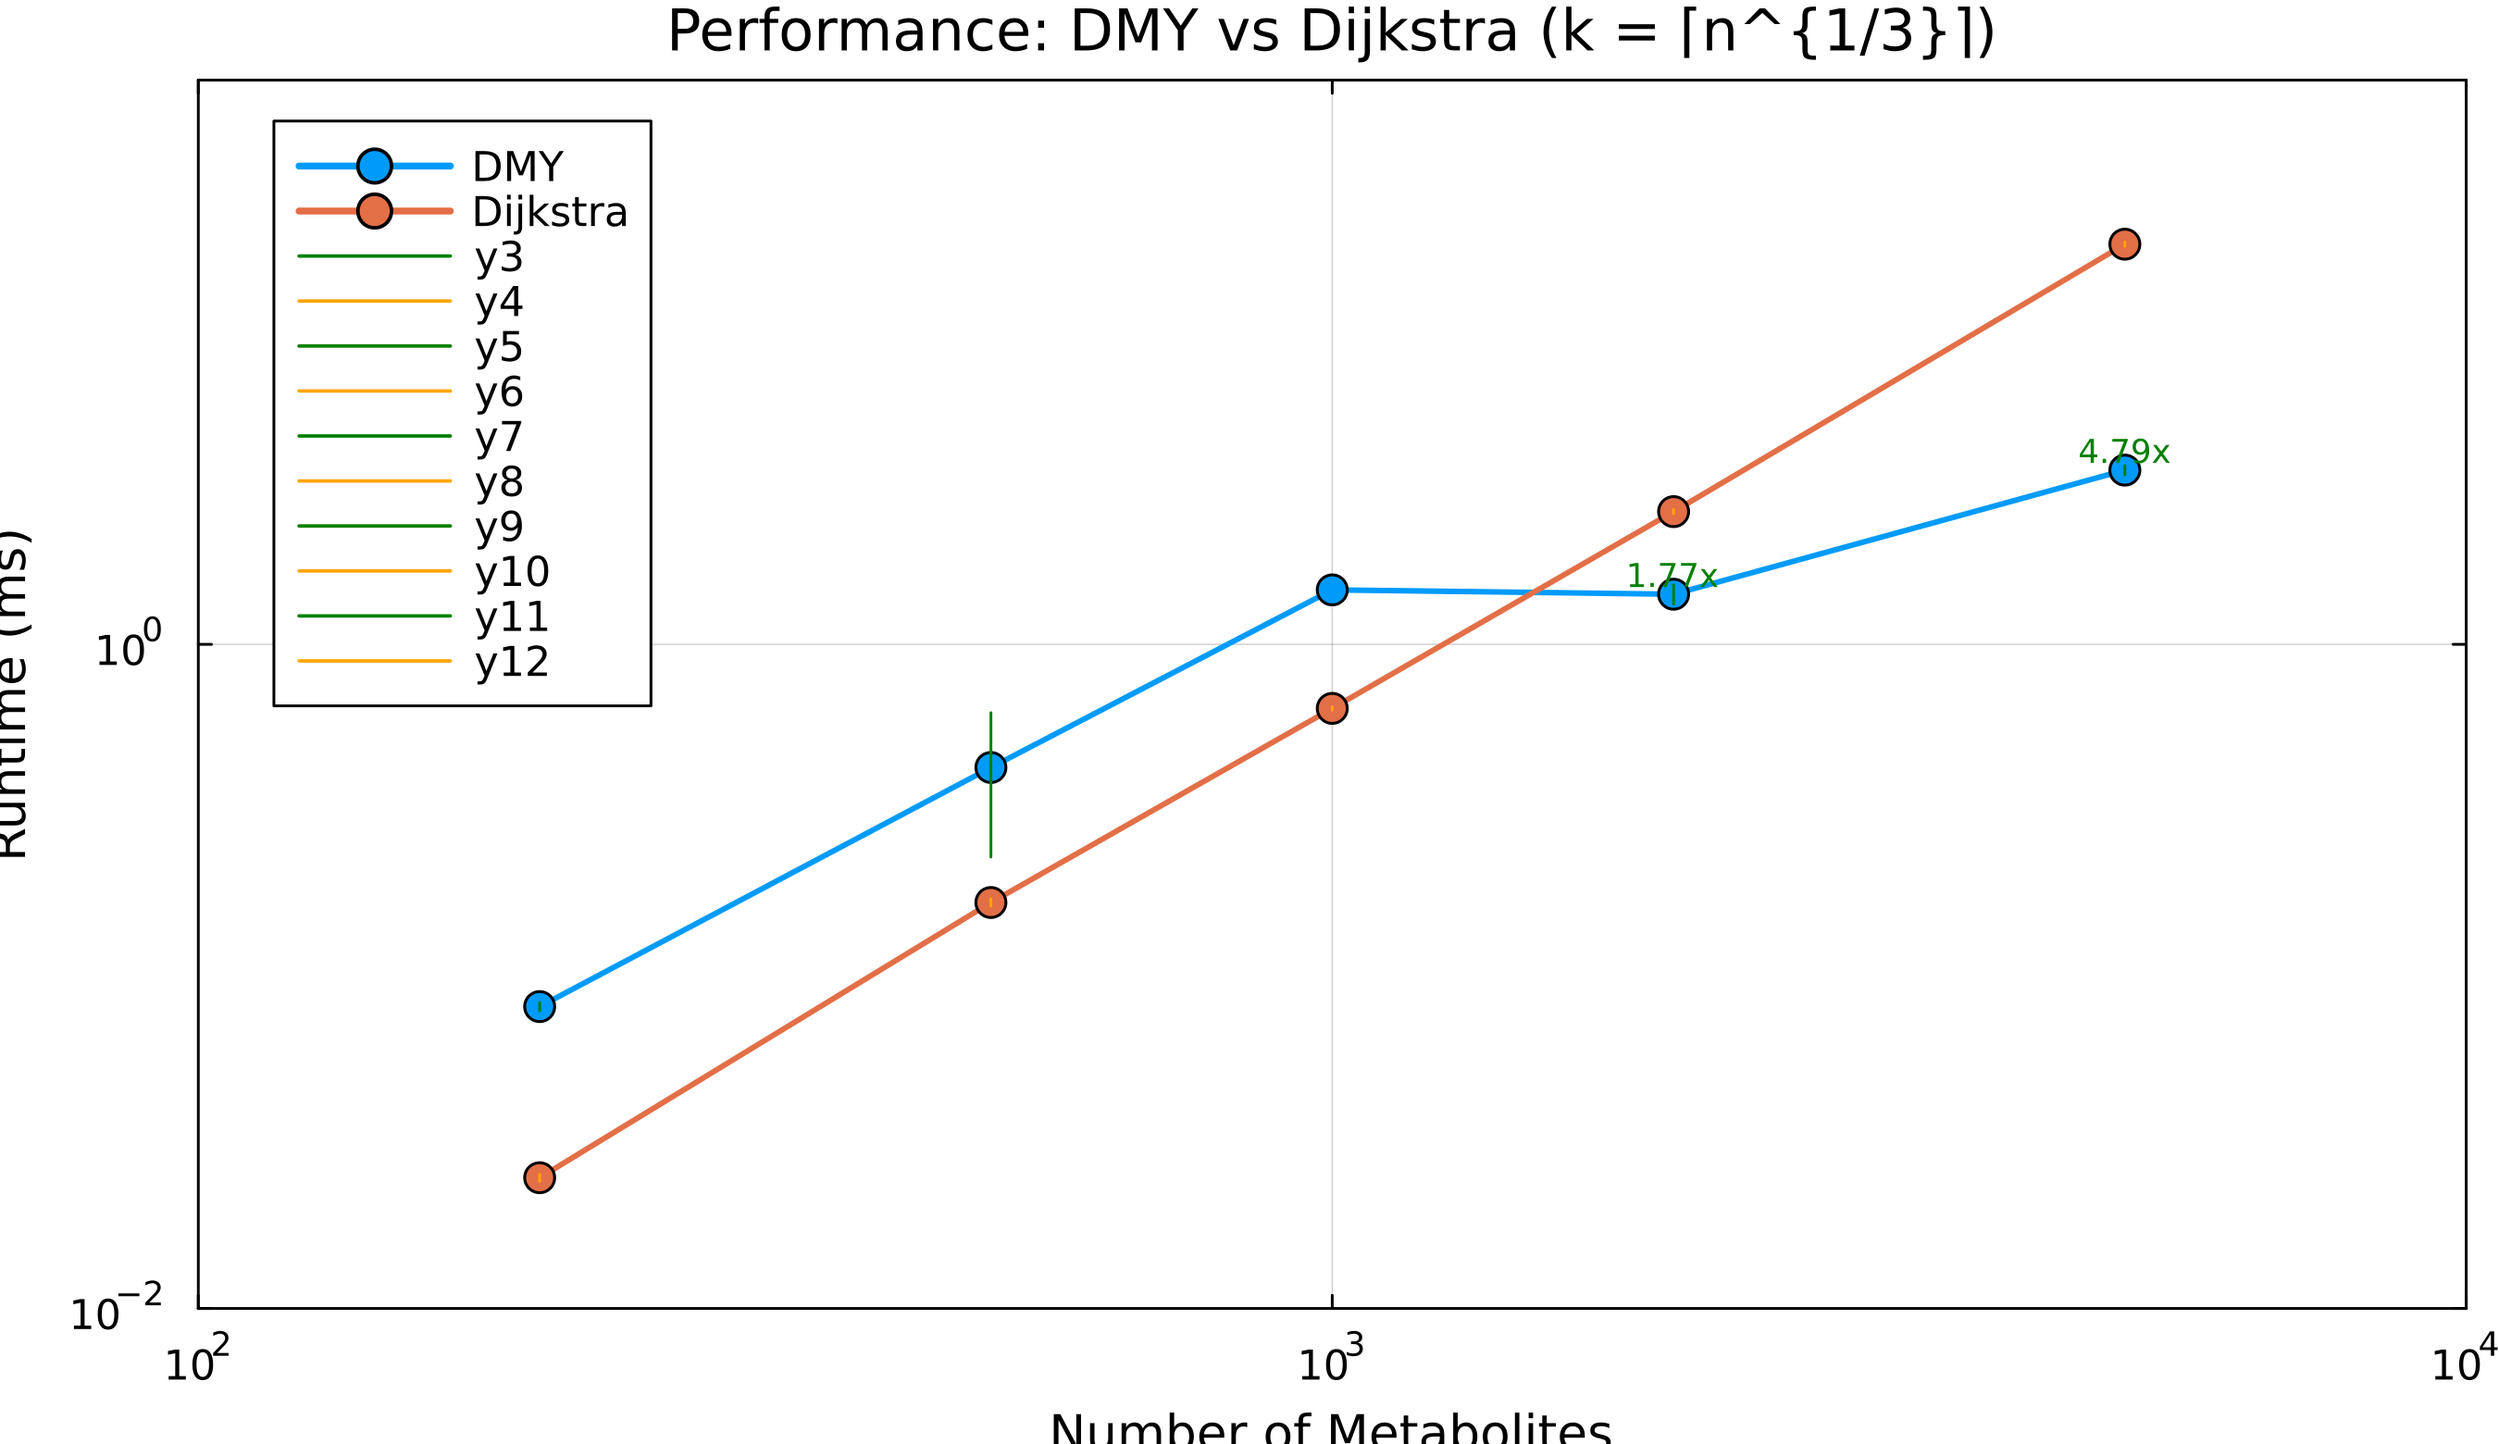
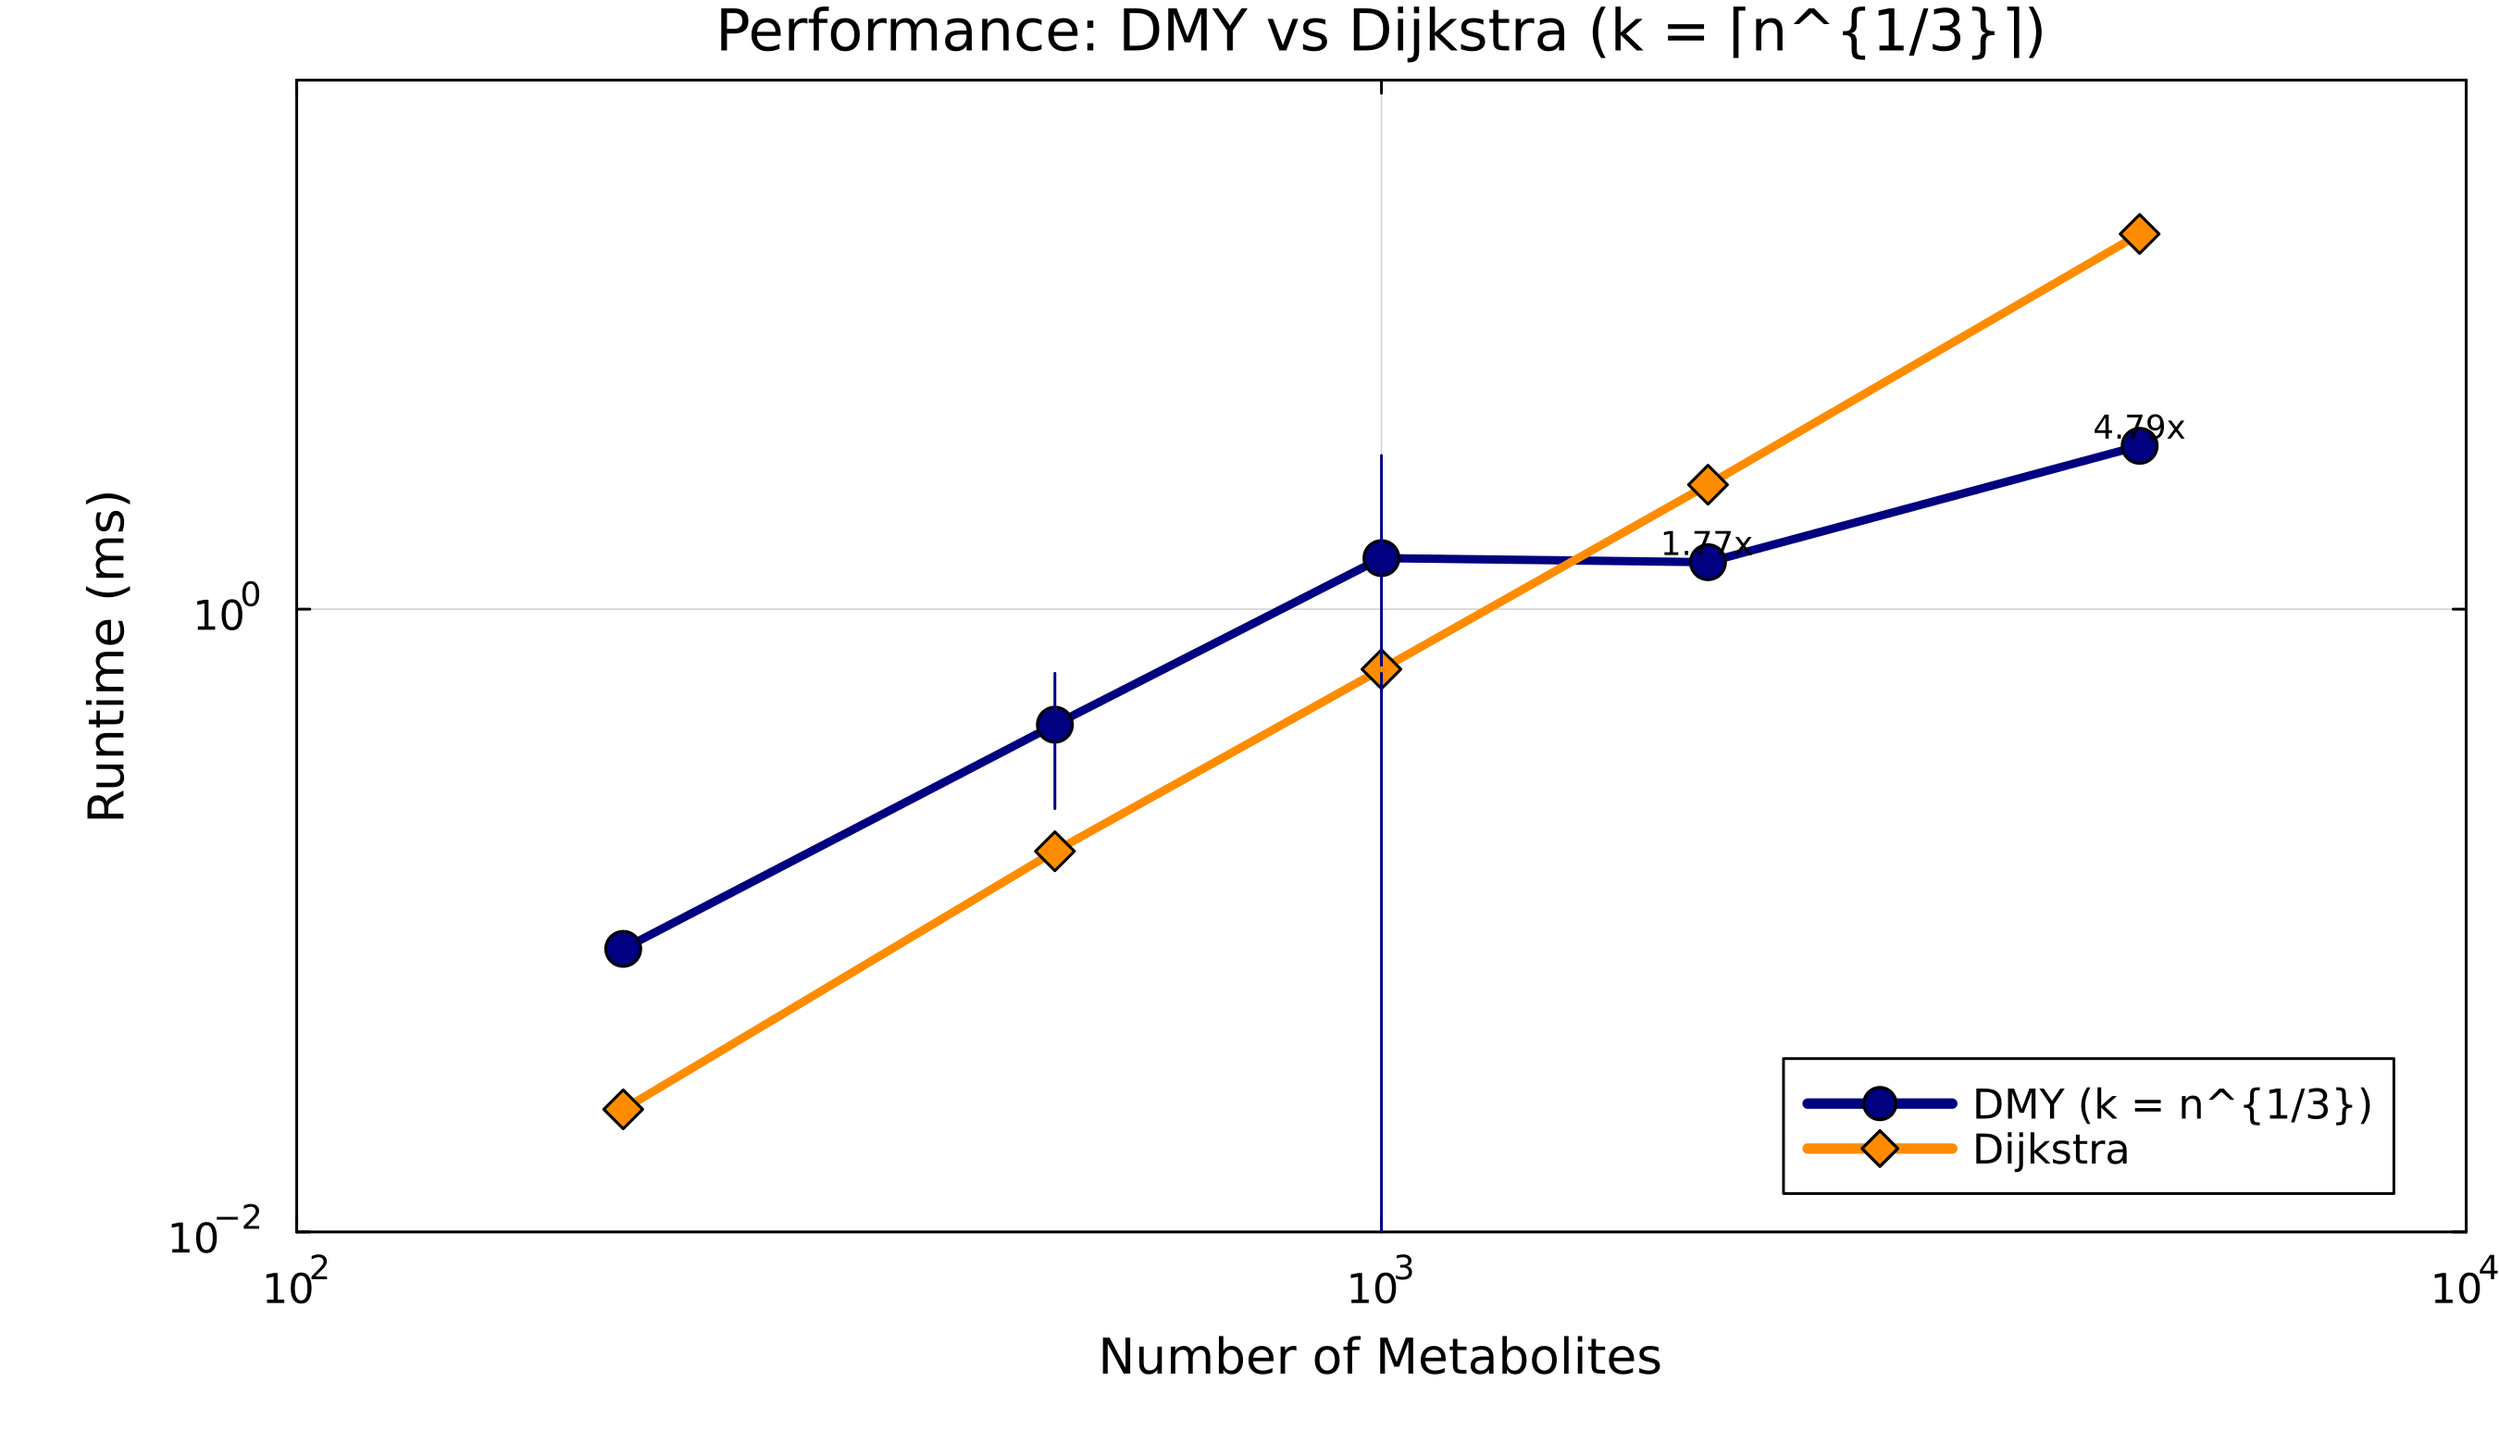
polish: final consistency improvements for publication
Performance plot styling:
- Metabolic pathway performance plot now matches treatment protocol style
- Navy circles for DMY, orange diamonds for Dijkstra
- Error bars color-matched to data series
- Added margins to prevent axis/label clipping

Dashboard accuracy:
- Treatment protocol: Corrected to "Six Pareto-optimal protocols"
- All values verified with OPTIM_SP_SEED=42

Figure regeneration:
- metabolic_performance.png regenerated with improved styling
- All examples re-run with seed=42 for final verification

All outputs now match dashboards and benchmark_results.txt.
Package ready for v1.0.3 release and registry submission.

diff --git a/examples/treatment_protocol/DASHBOARD.md b/examples/treatment_protocol/DASHBOARD.md
@@ -154,7 +154,7 @@ Legend highlights:
 
 ### Single vs Multi-Objective
 - **Single**: One "optimal" path minimizing cost
-- **Multi**: 8+ equally valid protocols on Pareto front
+- **Multi**: Six Pareto-optimal protocols provide distinct trade-offs
 - **Reality**: Patients have different priorities and constraints
 
 ### Treatment Personalization
